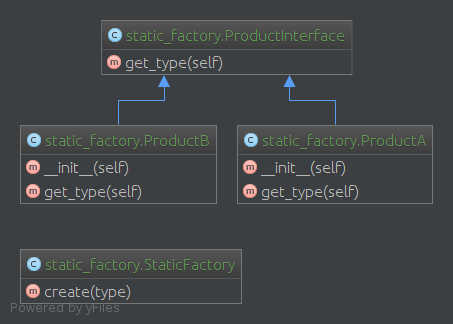
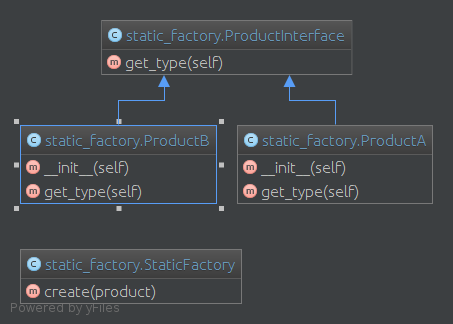
Static factory fix

diff --git a/static_factory.py b/static_factory.py
@@ -1,23 +1,7 @@
 #!/usr/bin/env python
 # -*- coding: utf-8 -*-
 
-
-# Factory
-
-class StaticFactory:
-    TYPE_PRODUCT_A = 'a'
-    TYPE_PRODUCT_B = 'b'
-
-    @staticmethod
-    def create(type):
-        if type == StaticFactory.TYPE_PRODUCT_A:
-            return ProductA()
-
-        elif type == StaticFactory.TYPE_PRODUCT_B:
-            return ProductB()
-
-        else:
-            raise ValueError('Invalid type {}'.format(type))
+import inspect
 
 
 # Entities
@@ -32,7 +16,7 @@ class ProductA(ProductInterface):
         pass
 
     def get_type(self):
-        return StaticFactory.TYPE_PRODUCT_A
+        return 'This is Product A'
 
 
 class ProductB(ProductInterface):
@@ -40,7 +24,21 @@ class ProductB(ProductInterface):
         pass
 
     def get_type(self):
-        return StaticFactory.TYPE_PRODUCT_B
+        return 'This is Product B'
+
+
+# Factory
+
+class StaticFactory:
+    TYPE_PRODUCT_A = ProductA
+    TYPE_PRODUCT_B = ProductB
+
+    @staticmethod
+    def create(product):
+        if inspect.isclass(product):
+            return product()
+        else:
+            raise ValueError('Invalid product {}'.format(product))
 
 # Creating products
 if __name__ == "__main__":
@@ -49,3 +47,7 @@ if __name__ == "__main__":
 
     product_b = StaticFactory.create(StaticFactory.TYPE_PRODUCT_B)
     print product_b.get_type()
+
+### OUTPUT ###
+# This is Product A
+# This is Product B
